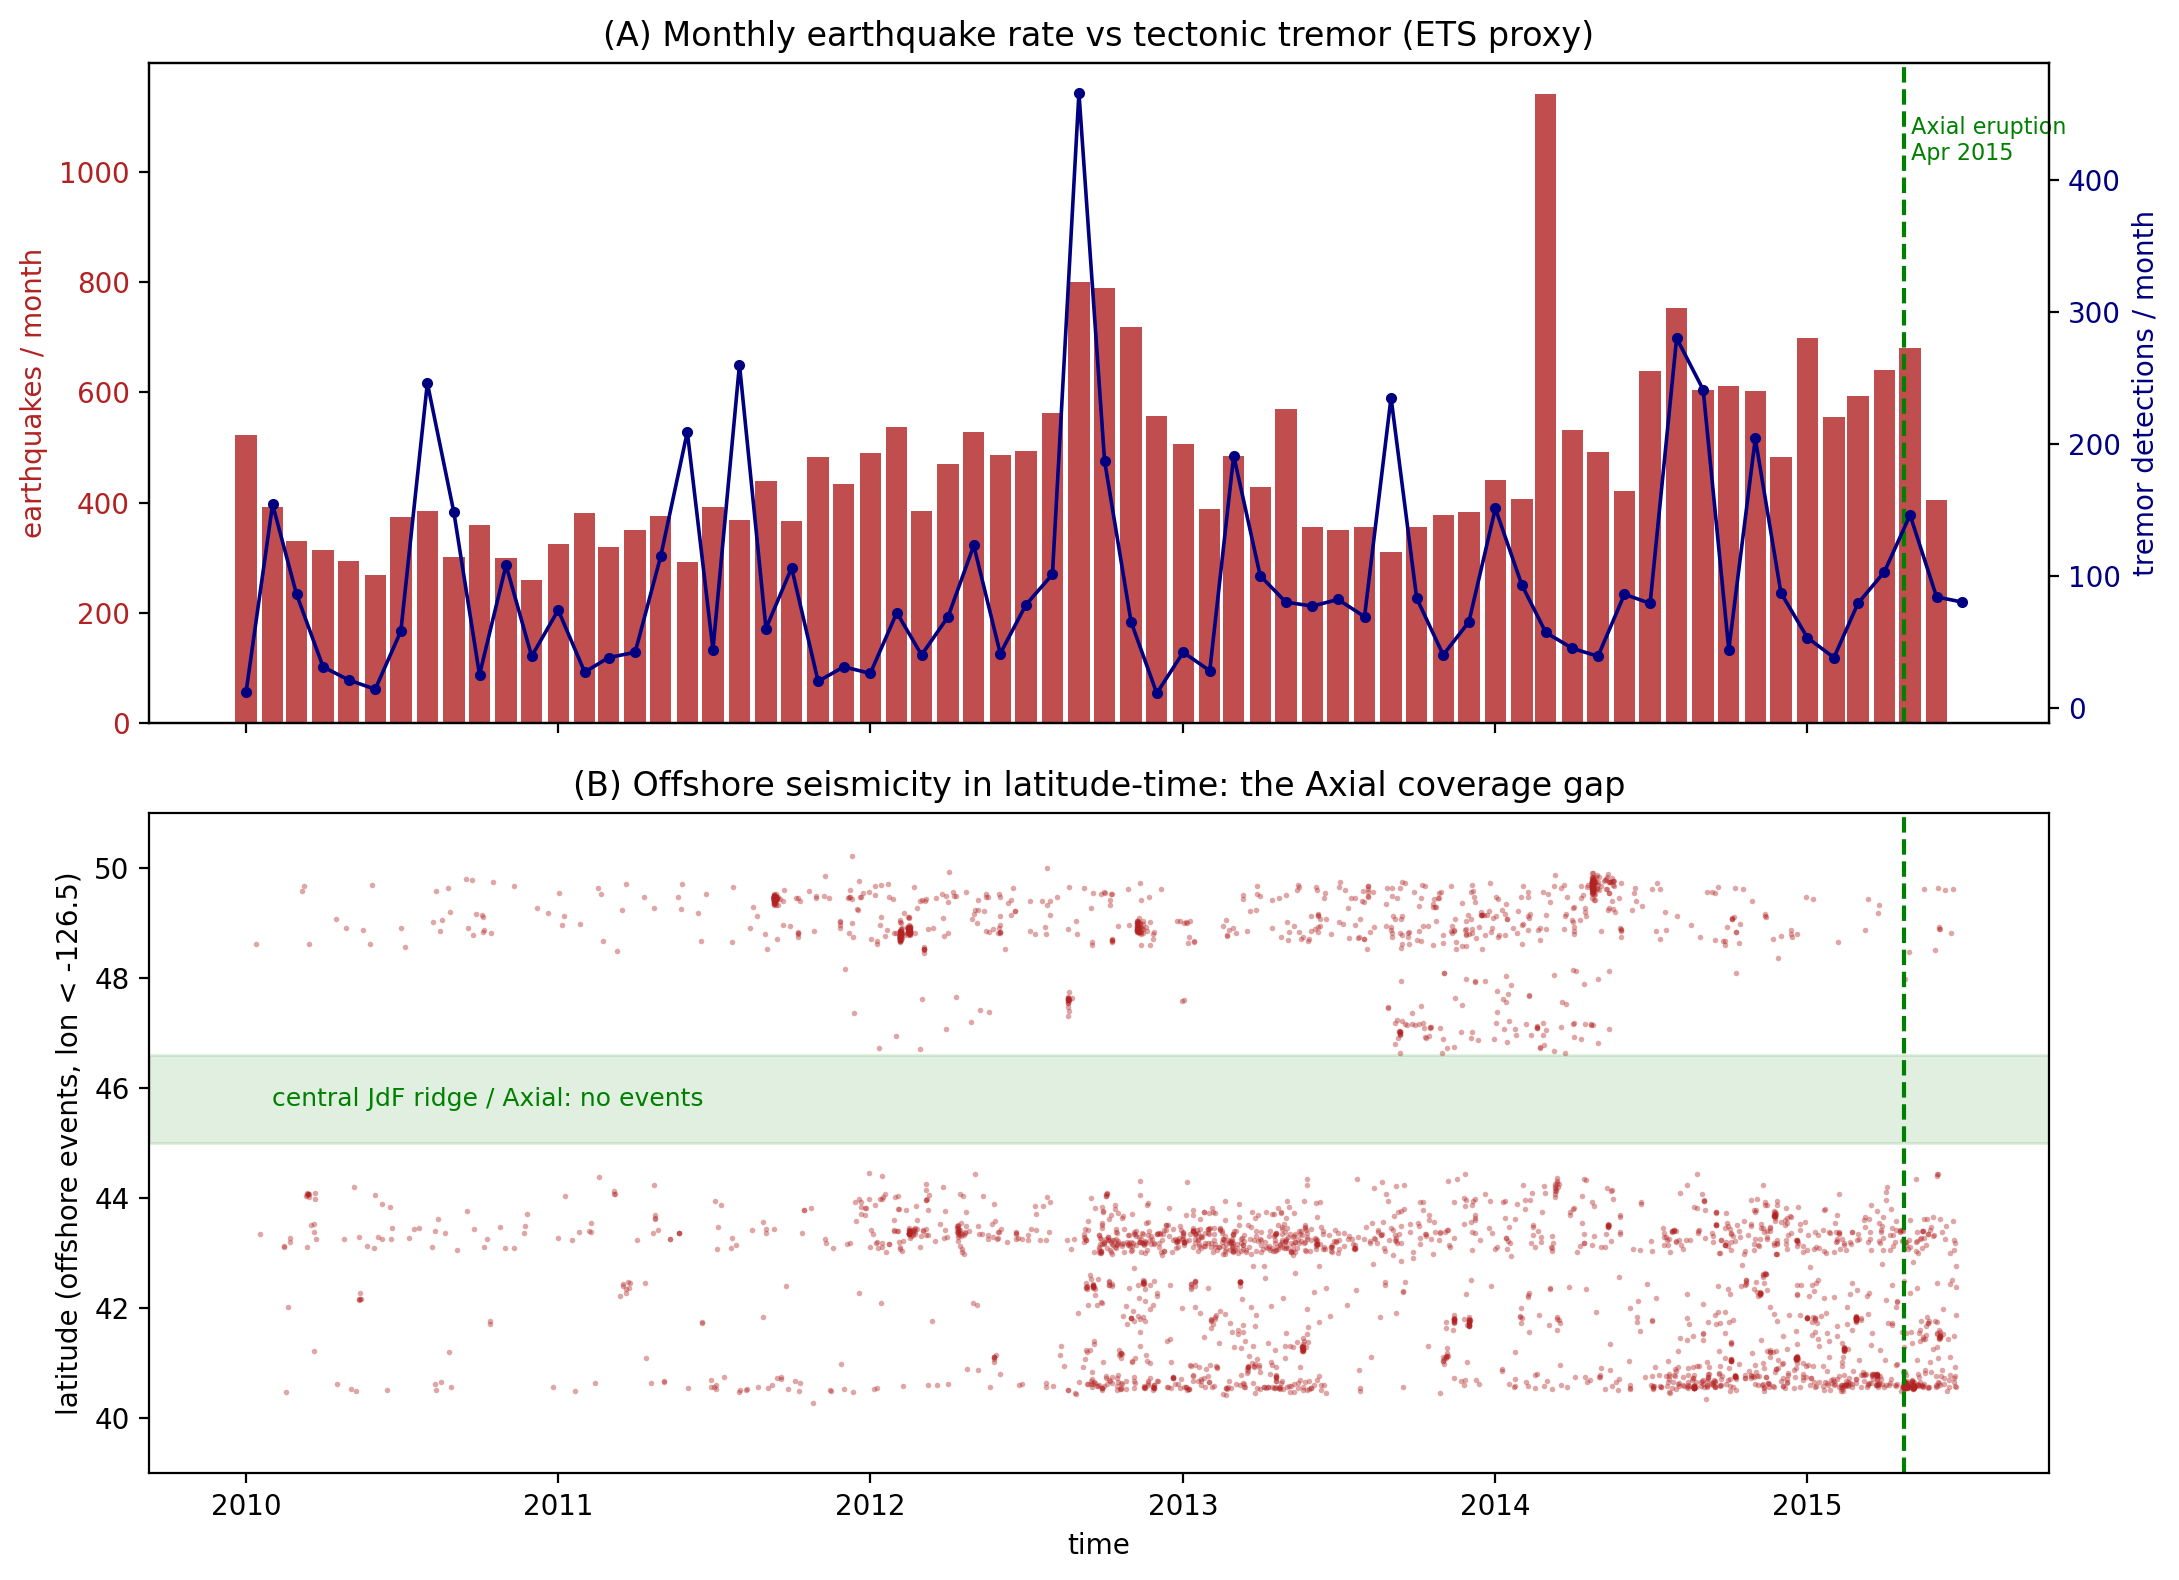
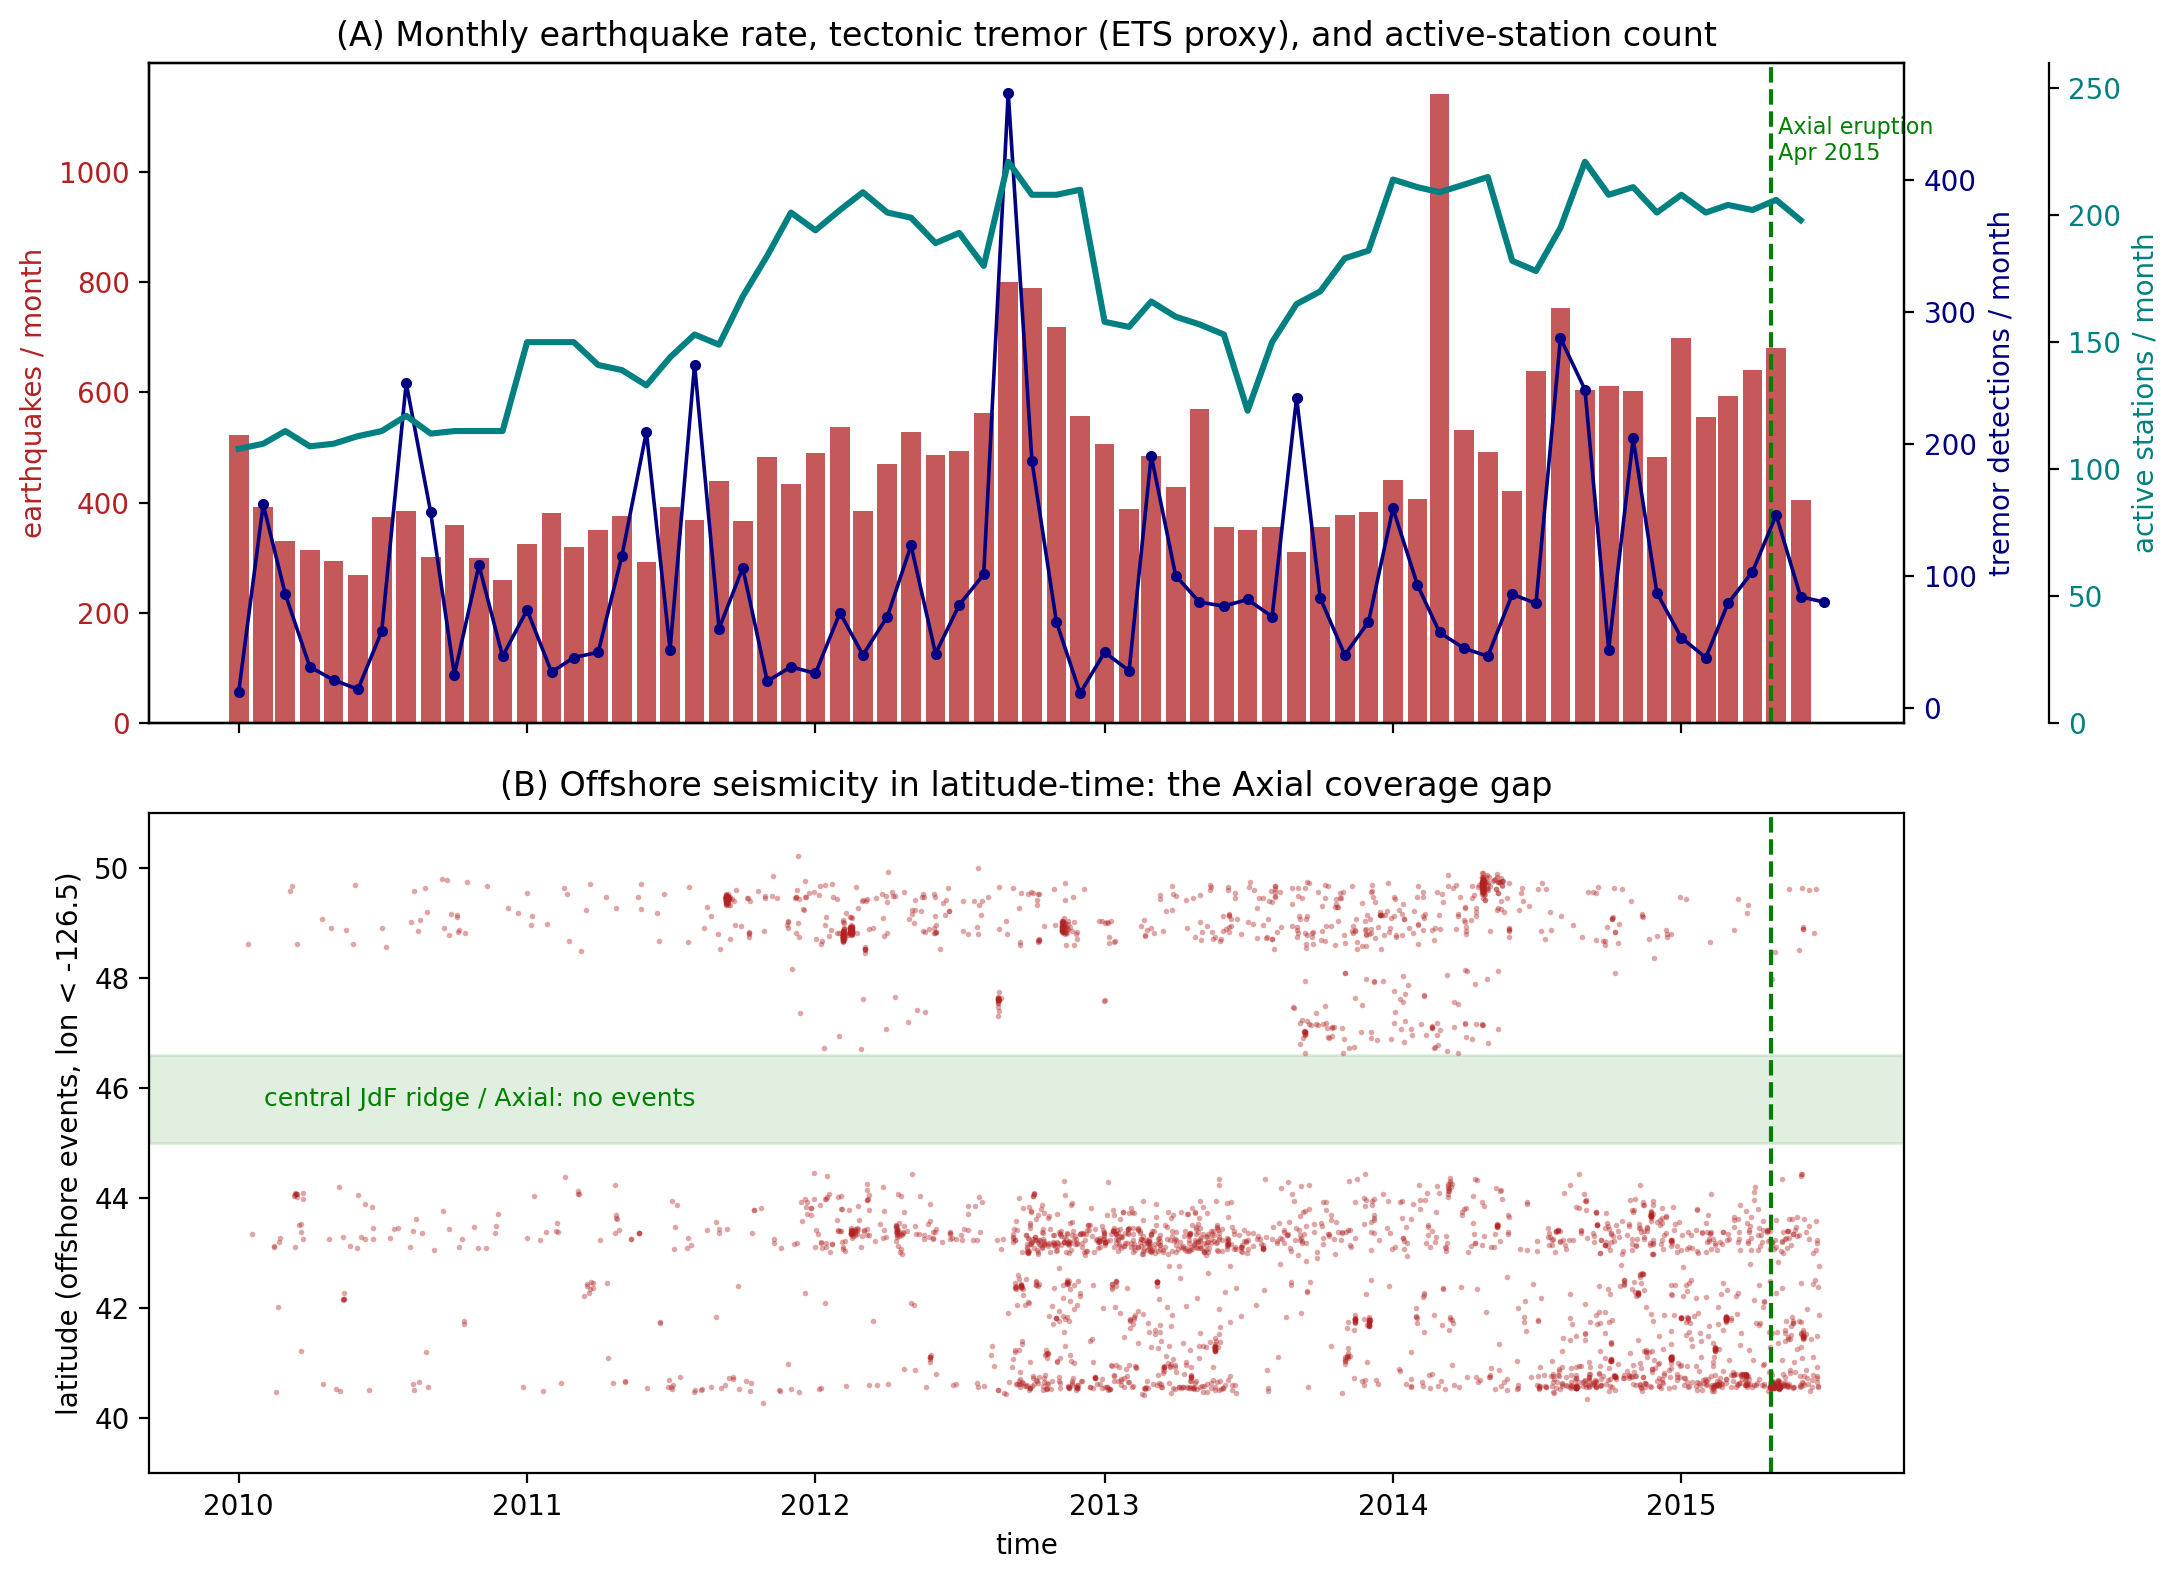
temporal figure: add active-station count curve to panel A
Third (teal) axis on panel A shows unique stations contributing associated picks per
month (network-size proxy, since the station list has no deployment dates): the CI OBS
array grows ~110 -> ~210 stations with yearly rotation dips, and the earthquake-rate
ramp tracks it -- detection rate is largely network-driven.

diff --git a/4_relocation/magnitude/phase8_temporal.py b/4_relocation/magnitude/phase8_temporal.py
@@ -21,8 +21,21 @@ import pandas as pd
 
 QC = "../../data/datasets_all_regions/origin_2010_2015_reloc_cog_ver3_cc_p_4_s_4_rms_2_5.csv"
 TREMOR = "../../data/datasets_all_regions/pnsn_tremor.json"
+ASSOC = "../../data/datasets_all_regions/assoc_2010_2015_reloc_cog_ver3.csv"
+ORIGIN = "../../data/datasets_all_regions/origin_2010_2015_reloc_cog_ver3.csv"
 OUT = "../../data/magnitude/temporal_context.png"
 AXIAL_ERUPTION = pd.Timestamp("2015-04-24")
+
+
+def active_stations_per_month():
+    """Unique stations contributing associated picks each month (network-size proxy);
+    the station list has no deployment dates, so we count from the associations."""
+    assoc = pd.read_csv(os.path.expanduser(ASSOC), usecols=["orid", "sta"])
+    orig = pd.read_csv(os.path.expanduser(ORIGIN), usecols=["orid", "time"])
+    m = assoc.merge(orig, on="orid", how="inner")
+    m["t"] = pd.to_datetime(m["time"], unit="s")
+    s = m.set_index("t").groupby(pd.Grouper(freq="MS"))["sta"].nunique()
+    return s
 
 
 def load_tremor(path):
@@ -40,11 +53,12 @@ def main():
     win = (slice("2010-01-01", "2015-07-01"))
     eq_m = qc.set_index("t").resample("MS").size().loc[win]
     tr_m = tr.set_index("t").resample("MS").size().loc[win]
+    sta_m = active_stations_per_month().loc[win]
 
     fig, (ax1, ax2) = plt.subplots(2, 1, figsize=(11, 8), sharex=True)
 
-    # (A) monthly earthquake rate vs tremor rate
-    ax1.bar(eq_m.index, eq_m.values, width=25, color="firebrick", alpha=0.8,
+    # (A) monthly earthquake rate vs tremor rate vs active-station count
+    ax1.bar(eq_m.index, eq_m.values, width=25, color="firebrick", alpha=0.75,
             label="earthquakes / month")
     ax1.set_ylabel("earthquakes / month", color="firebrick")
     ax1.tick_params(axis="y", labelcolor="firebrick")
@@ -53,10 +67,18 @@ def main():
              label="tremor detections / month")
     axt.set_ylabel("tremor detections / month", color="navy")
     axt.tick_params(axis="y", labelcolor="navy")
+    ax3 = ax1.twinx()                                   # active stations, offset axis
+    ax3.spines["right"].set_position(("outward", 52))
+    ax3.plot(sta_m.index, sta_m.values, "-", color="teal", lw=2.2,
+             label="active stations")
+    ax3.set_ylabel("active stations / month", color="teal")
+    ax3.tick_params(axis="y", labelcolor="teal")
+    ax3.set_ylim(0, 260)
     ax1.axvline(AXIAL_ERUPTION, color="green", ls="--", lw=1.5)
     ax1.text(AXIAL_ERUPTION, ax1.get_ylim()[1]*0.92, " Axial eruption\n Apr 2015",
              color="green", fontsize=8, va="top")
-    ax1.set_title("(A) Monthly earthquake rate vs tectonic tremor (ETS proxy)")
+    ax1.set_title("(A) Monthly earthquake rate, tectonic tremor (ETS proxy), "
+                  "and active-station count")
 
     # (B) offshore latitude vs time -> the central-ridge / Axial gap
     off = qc[qc.lon < -126.5]
